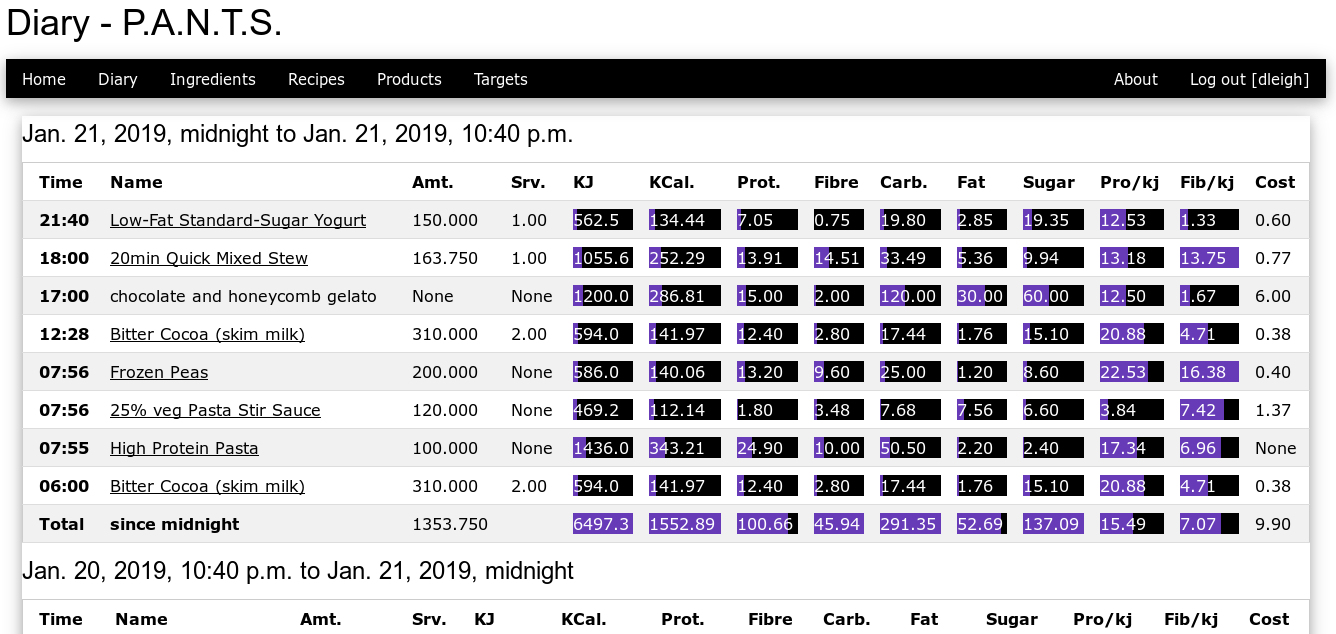
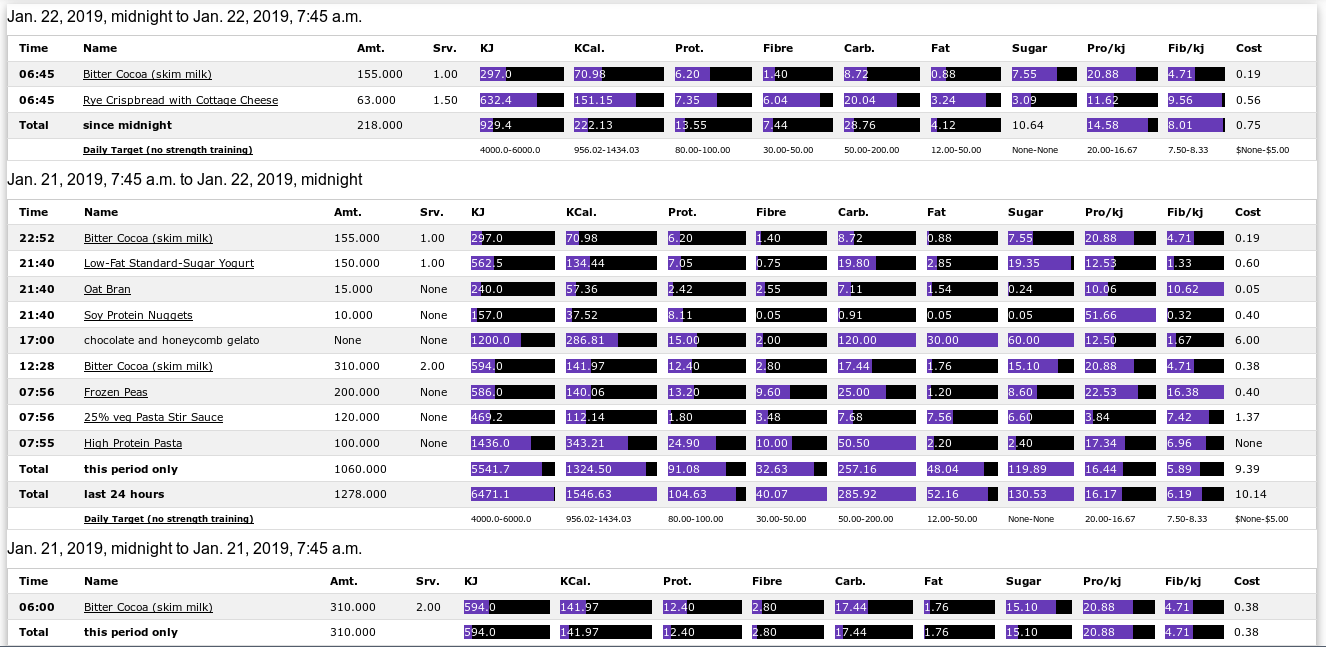
update diary screenshot to show daily target display

diff --git a/TODO.rst b/TODO.rst
@@ -13,8 +13,9 @@ Target comparison (Currently WIP)
 =================================
 
 - Util funcs to get current user daily target, and current user diary today/last24 data (done, used on home page)
-- Use to show target on diary breakdown page
-- Use target on recipe/ingredient detail pages
+- Use to show target on diary breakdown page (done, just last calendar day so far)
+- Add daily target comparison on recipe/ingredient detail pages
+- Add daily target comparison as an option on recipe/ingredient list pages
 
 NData and calculation DRYing
 ============================
@@ -29,12 +30,12 @@ NData and calculation DRYing
 API / filter (Currently WIP)
 ============================
 
-- API-based frontend? Use DRF API - Don't bother with substatial FE improvements until this is done!
 - Use django-filter (replace custom tag view handling etc) (work in progress, mostly done)
 - Limits and other context in FilterView
 - Allow filtering on calculated ndata
 - Fix/style form in ing-filter template
 - filter recipe, diary as for ings
+- API-based frontend? Use DRF API - Don't bother with substatial FE improvements until this is done!
 
 Deploy tasks
 ============
